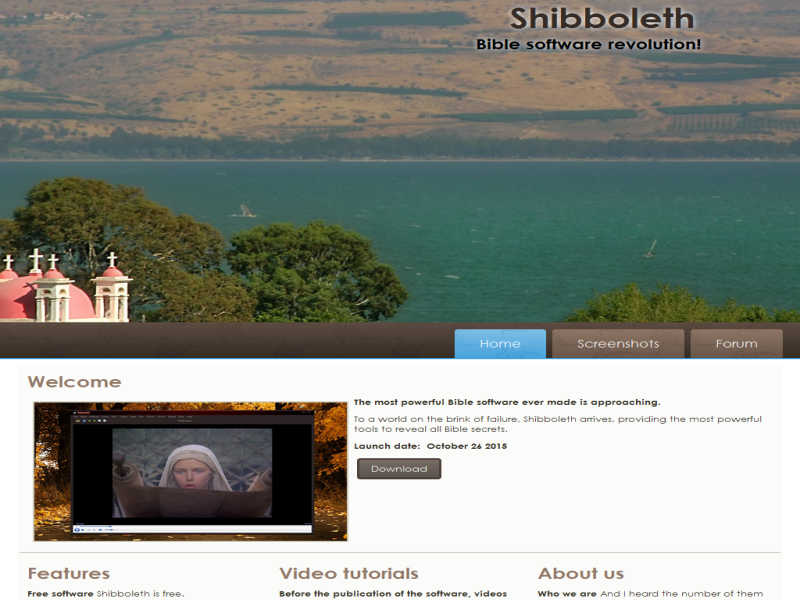
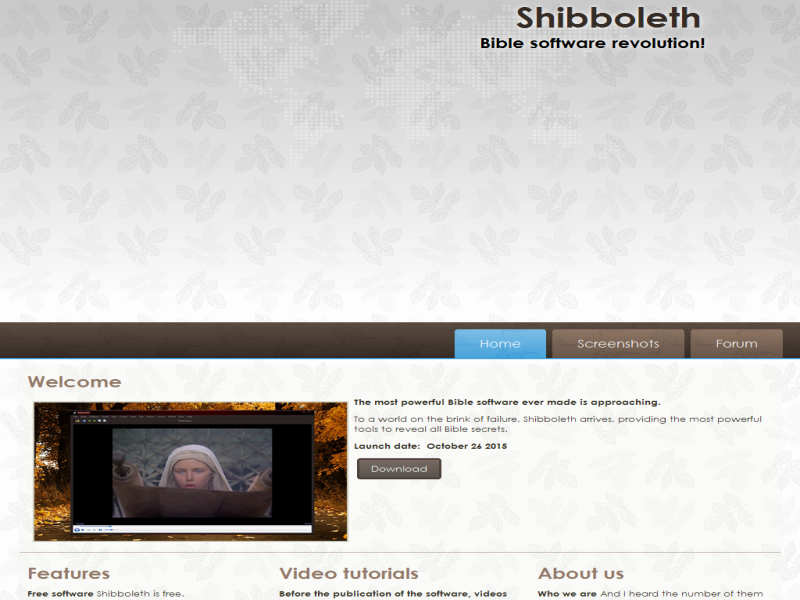
5

diff --git a/style.css b/style.css
@@ -2,13 +2,13 @@
 
 #art-main
 {
-   background: #FFFFFF url('images/pageglare.png') top center no-repeat scroll;
-   background: url('images/pageglare.png') top center no-repeat, -webkit-linear-gradient(top, #BFBFBF 0, #FFFFFF 500px) no-repeat;
-   background: url('images/pageglare.png') top center no-repeat, -moz-linear-gradient(top, #BFBFBF 0, #FFFFFF 500px) no-repeat;
-   background: url('images/pageglare.png') top center no-repeat, -o-linear-gradient(top, #BFBFBF 0, #FFFFFF 500px) no-repeat;
-   background: url('images/pageglare.png') top center no-repeat, -ms-linear-gradient(top, #BFBFBF 0, #FFFFFF 500px) no-repeat;
-   -svg-background: url('images/pageglare.png') top center no-repeat, linear-gradient(top, #BFBFBF 0, #FFFFFF 500px) no-repeat;
-   background: url('images/pageglare.png') top center no-repeat, linear-gradient(to bottom, #BFBFBF 0, #FFFFFF 500px) no-repeat;
+   background: #FFFFFF url('images/page.png') scroll;
+   background: url('images/pageglare.png') top center no-repeat, -webkit-linear-gradient(top, rgba(159, 159, 159, 0.07) 0, rgba(255, 255, 255, 0.19) 500px) no-repeat, url('images/page.png'), -webkit-linear-gradient(top, #BFBFBF 0, #FFFFFF 500px) no-repeat;
+   background: url('images/pageglare.png') top center no-repeat, -moz-linear-gradient(top, rgba(159, 159, 159, 0.07) 0, rgba(255, 255, 255, 0.19) 500px) no-repeat, url('images/page.png'), -moz-linear-gradient(top, #BFBFBF 0, #FFFFFF 500px) no-repeat;
+   background: url('images/pageglare.png') top center no-repeat, -o-linear-gradient(top, rgba(159, 159, 159, 0.07) 0, rgba(255, 255, 255, 0.19) 500px) no-repeat, url('images/page.png'), -o-linear-gradient(top, #BFBFBF 0, #FFFFFF 500px) no-repeat;
+   background: url('images/pageglare.png') top center no-repeat, -ms-linear-gradient(top, rgba(159, 159, 159, 0.07) 0, rgba(255, 255, 255, 0.19) 500px) no-repeat, url('images/page.png'), -ms-linear-gradient(top, #BFBFBF 0, #FFFFFF 500px) no-repeat;
+   -svg-background: url('images/pageglare.png') top center no-repeat, linear-gradient(top, rgba(159, 159, 159, 0.07) 0, rgba(255, 255, 255, 0.19) 500px) no-repeat, url('images/page.png'), linear-gradient(top, #BFBFBF 0, #FFFFFF 500px) no-repeat;
+   background: url('images/pageglare.png') top center no-repeat, linear-gradient(to bottom, rgba(159, 159, 159, 0.07) 0, rgba(255, 255, 255, 0.19) 500px) no-repeat, url('images/page.png'), linear-gradient(to bottom, #BFBFBF 0, #FFFFFF 500px) no-repeat;
    margin:0 auto;
    font-size: 13px;
    font-family: 'Century Gothic', Arial, 'Arial Unicode MS', Helvetica, Sans-Serif;
